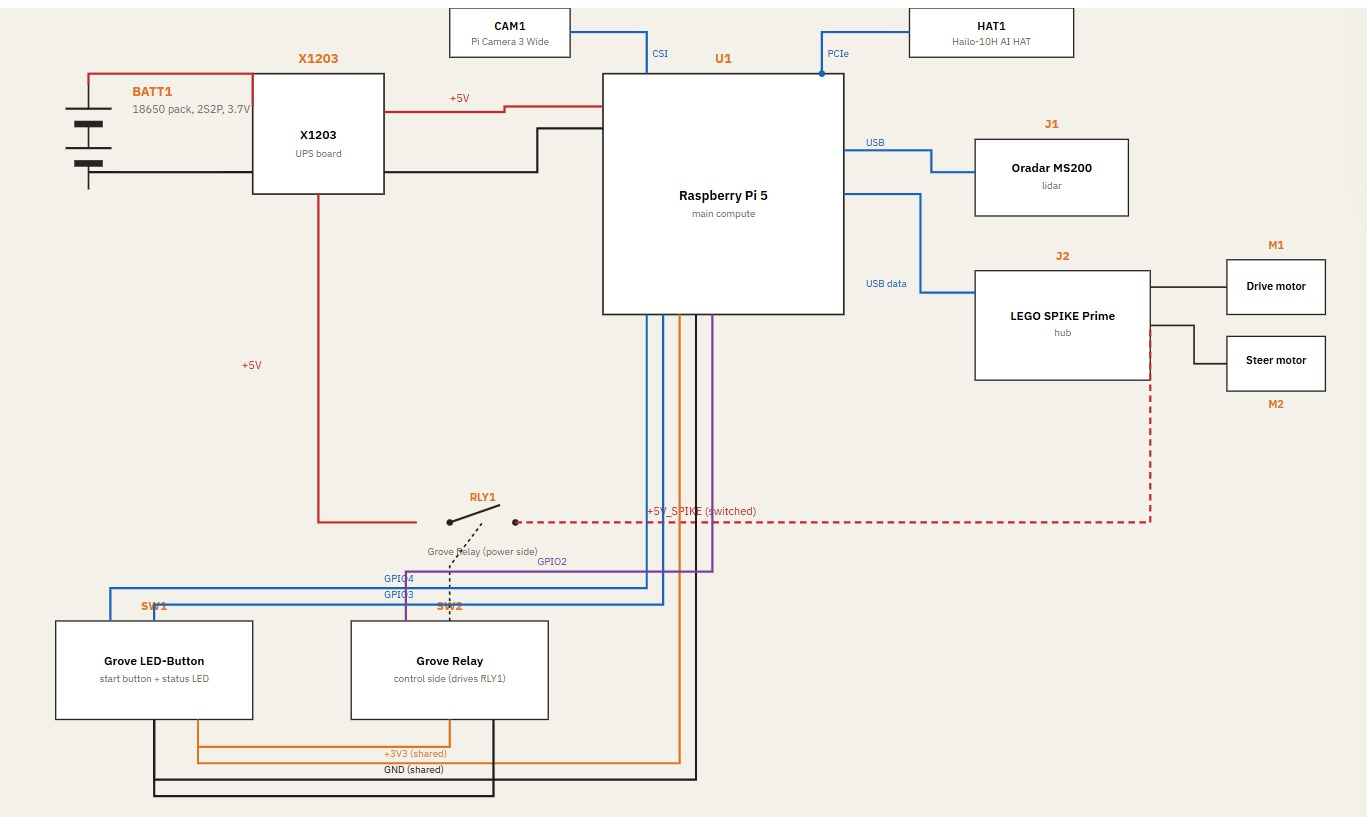
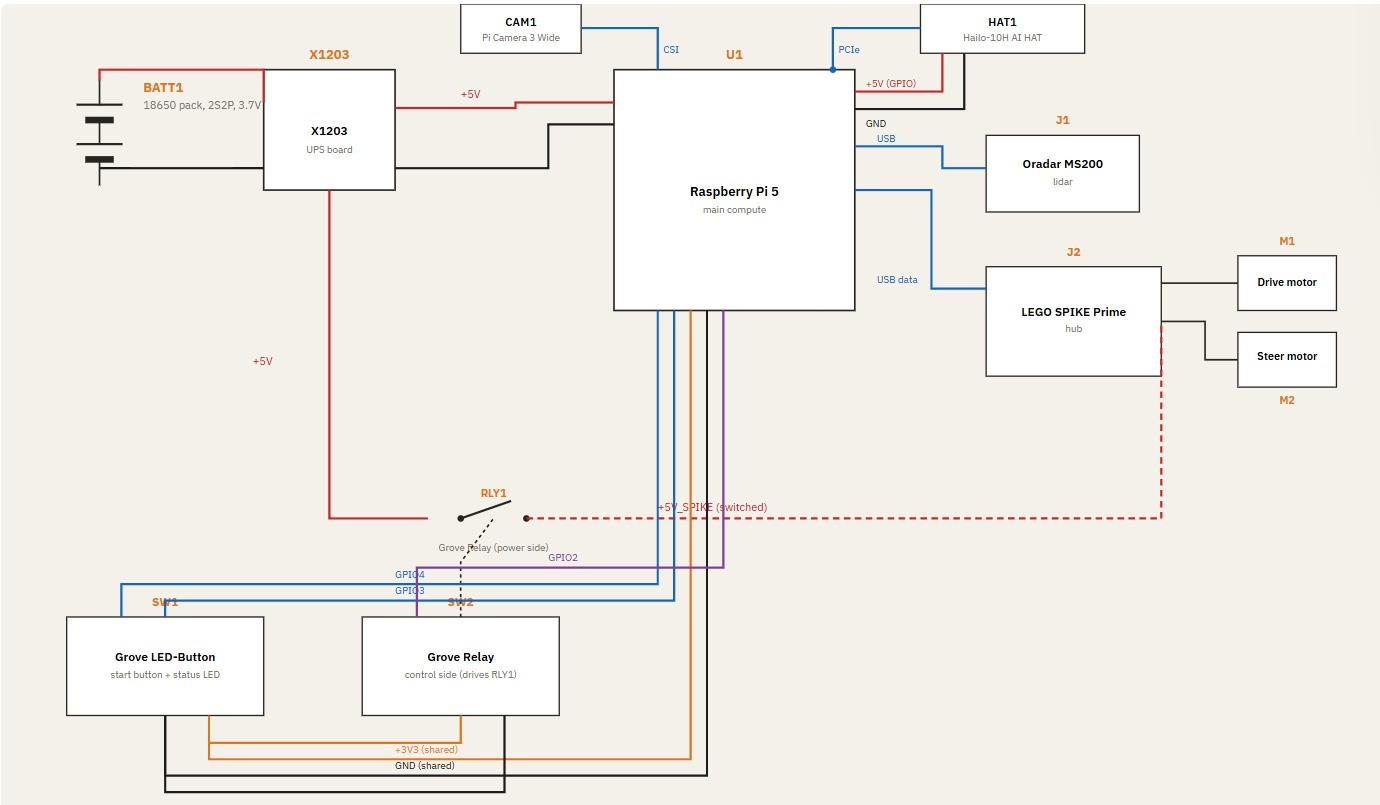
Updates to README.md

diff --git a/README.md b/README.md
@@ -393,21 +393,12 @@ Motor and steering commands are sent over a serial (USB) link to the LEGO SPIKE 
 
 ### Hardware Schematics & PCB Design
 
-No custom PCB was implemented in this prototype, all components are connected via their stock breakout boards/shields (Geekworm X1203, Grove modules, etc.) and standard wiring. Schematics for a custom PCB are still in development and not yet implemented in the robot; they are kept at `schemes\hardware\pcb` and may be adopted in a future revision if the team qualifies for the international stage.
 
-<mark>
-Component-level schematics/pinouts referenced below can be added as they're sourced:
-<img src="path/to/raspberry_pi5_schematic.png" alt="Raspberry Pi 5 schematic/pinout">
-*Figure 6. Raspberry Pi 5 schematic/pinout.*
-<img src="path/to/hailo10h_ai_hat_schematic.png" alt="Raspberry Pi AI HAT+ (Hailo-10H) schematic/pinout">
-*Figure 7. Raspberry Pi AI HAT+ (Hailo-10H) schematic/pinout.*
-<img src="path/to/x1203_ups_schematic.png" alt="Geekworm X1203 UPS shield schematic">
-*Figure 8. Geekworm X1203 UPS shield schematic.*
-<img src="path/to/oradar_ms200k_schematic.png" alt="Orbbec Oradar MS200k LiDAR wiring/pinout">
-*Figure 9. Orbbec Oradar MS200k LiDAR wiring/pinout.*
-<img src="path/to/spike_prime_hub_schematic.png" alt="LEGO SPIKE Prime Hub pinout/wiring">
-*Figure 10. LEGO SPIKE Prime Hub pinout/wiring.*
-</mark>
+<img src="schemes\hardware\connectionsSchematics.jpeg" alt="Connections Schematics">
+
+*Figure 6. System wiring diagram showing power distribution (Geekworm X1203 UPS board from the 2S2P 18650 battery pack) and data connections between the Raspberry Pi 5, Camera Module 3 Wide (CSI), Hailo-10H AI HAT (PCIe), Oradar MS200 LiDAR (USB), LEGO SPIKE Prime hub (USB, driving the drive and steer motors), the GPIO-controlled start button/status LED (Grove LED-Button), and the Grove Relay that switches 5V power to the SPIKE hub.*
+
+No custom PCB was implemented in this prototype; the full system wiring is documented in the connections schematic above (*Figure 6*), and all components are connected via their stock breakout boards/shields (Geekworm X1203, Grove modules, etc.) and standard wiring. Schematics for a custom PCB are still in development and not yet implemented in the robot; they are kept at [`schemes\hardware\pcb`](schemes/hardware/pcb) and may be adopted in a future revision if the team qualifies for the international stage. 
 
 ---
 
@@ -429,7 +420,91 @@ All control and vision code runs in C++ on the Raspberry Pi 5, paired with the H
 
 <img src="other\additionalMedia\Others\wro_software_dataflow_diagram.png" alt="Software data flow diagram: sensors, processing, decision, and actuators" width="800">
 
-*Figure 11. Software data flow from sensor input through processing and decision-making to motor actuation.*
+*Figure 7. Software data flow from sensor input through processing and decision-making to motor actuation.*
+
+### Open Challenge Program Flow
+
+Unlike the Obstacle Challenge, the Open Challenge runs a separate, simpler program [`src\ondevice\main.cpp`](src/ondevice/main.cpp). There are no color pillars to detect, so the Hailo/camera pipeline isn't used at all, only the LiDAR and the SPIKE Prime Hub. The trace below follows `main()` top to bottom. The robot's own left/right turns are true mirror images of each other in the code, drawn once here as `sentido` (the detected open side), with the mirror called out in the caption below.
+
+```mermaid
+flowchart TD
+    A(["Power on"]) --> B["Init lidar + writer thread<br/>Init GPIO, power on SPIKE hub<br/>SPIKE serial + interpreter,<br/>load on-hub motion routines"]
+    B --> C{{"Wait for start button"}}
+    C --> D["Reset gyro to 0&deg;<br/>Center vehicle"]
+    D --> E["Read lidar once:<br/>front / right / left distance"]
+    E --> F{"right or left<br/>&gt; 800&nbsp;mm?"}
+    F -- yes: OUTSIDE start --> G["First straight = 1350&nbsp;mm"]
+    F -- no: INSIDE start --> H["First straight = 300&nbsp;mm"]
+    G --> I["Detect which side is open:<br/>Advance_And_Detect_Side()<br/>&rarr; sentido = right | left"]
+    H --> I
+    I --> J["Turn 80&deg; toward sentido<br/>Center vehicle"]
+    J --> K["Drive the first-straight distance,<br/>curving toward sentido"]
+    K --> L["Slope() at +300&nbsp;mm,<br/>Slope() again at +700&nbsp;mm more"]
+    L --> M["Average the two slopes<br/>Reset gyro to that heading"]
+    M --> N(["Corner loop<br/>v = 0 &hellip; 9"])
+    N --> O["Advance until a gap opens<br/>on the sentido side"]
+    O --> P["Turn 80&deg; toward sentido<br/>Center vehicle"]
+    P --> Q["Drive 300&nbsp;mm, then 700&nbsp;mm more,<br/>measuring + averaging slope again"]
+    Q --> R["Reset gyro to the new heading"]
+    R --> S{"v = 10?"}
+    S -- "no (v&plus;&plus;)" --> N
+    S -- yes --> T["Pick a stop distance from the<br/>opposite-side reading taken back<br/>at the start (400 / 600&nbsp;mm bands)"]
+    T --> U["Turn 80&deg; toward sentido, center<br/>Drive 300&nbsp;mm"]
+    U --> V{"front reading<br/>&gt; 1500&nbsp;mm?"}
+    V -- yes --> W1["Advance to 1750&nbsp;mm from wall"]
+    V -- no --> W2["Advance to 1400&nbsp;mm from wall"]
+    W1 --> X["Coast motors &middot; close serial<br/>stop lidar thread &middot; close lidar"]
+    W2 --> X
+    X --> Z(["Run finished"])
+```
+
+*Figure 8. Open Challenge program flow, traced directly from [`src\ondevice\main.cpp`](src/ondevice/main.cpp).*
+
+> Every turn, distance, and threshold above is read directly out of [`main.cpp`](src/ondevice/main.cpp). **Sentido** (the detected open side) is fixed for the whole run right after the first turn, the code for `sentido = left` is the exact sign-mirrored twin of the `right` path drawn here.
+
+##### High-Level States
+
+The same run, one level up, the states a judge or teammate would actually watch the robot move through.
+
+```mermaid
+stateDiagram-v2
+    [*] --> Booting
+    Booting --> WaitingForStart: hardware + hub ready
+    WaitingForStart --> Calibrating: start button pressed
+    Calibrating --> SideDetect: gyro zeroed, vehicle centered
+    SideDetect --> Aligning: open side found (left / right)
+    Aligning --> Cornering: heading corrected to wall
+    Cornering --> Aligning: gap found, turned (x10)
+    Cornering --> Parking: 10th corner cleared
+    Parking --> Stopped: final wall reached
+    WaitingForStart --> Stopped: Ctrl+C
+    Calibrating --> Stopped: Ctrl+C
+    SideDetect --> Stopped: Ctrl+C
+    Aligning --> Stopped: Ctrl+C
+    Cornering --> Stopped: Ctrl+C
+    Stopped --> [*]
+```
+
+*Figure 9. Open Challenge high-level state machine.*
+
+> Ctrl+C sets the lidar's `terminating` flag from every state; the current busy-wait loop notices it within ~1 ms and the run drops straight to **Stopped** instead of finishing the maneuver in progress.
+
+### Thresholds
+
+Pulled straight from the constants in [`main.cpp`](src/ondevice/main.cpp), for whoever tunes this next.
+
+| Constant | Value | Where it acts |
+|---|---|---|
+| Outside / inside split | `800 mm` | Right or left reading above this at the very start, treated as an "outside" starting box, else "inside". |
+| First straight, outside case | `1350 mm` | Distance driven right after the first turn, before the first slope measurement. |
+| First straight, inside case | `300 mm` | Same step, shorter start, inside boxes give less room before the first wall. |
+| Slope sampling gap | `300 + 700 mm` | Two `Slope()` reads this far apart get averaged into one heading correction. |
+| Corners per run | `10 (v < 10)` | Loop count for the corner-navigation phase, matches the Open Challenge's three laps of the four-cornered field. |
+| Corner turn angle | `80°` | Every `Spike_Turn_For_Degrees` call at a corner, in both the lap loop and the setup turn. |
+| Final approach bands | `400 / 600 mm` | The opposite-side reading from step 1 selects a 550, 750, or 1050 mm stop distance for parking. |
+| Final front threshold | `1500 mm` | Chooses whether the closing approach stops at 1400 or 1750 mm from the front wall. |
+
+---
 
 #### LiDAR & Perception Processing
 
@@ -472,11 +547,8 @@ Both gain sets were obtained through trial-and-error tuning on the physical trac
 * **Parallel Parking Maneuver:** The camera detects the magenta parking lot markers (labeled `x-parking`) to locate the parking zone. The robot then uses the LiDAR to position itself at a set distance from the wall, and from there uses a combination of LiDAR and gyroscope readings to execute the parking maneuver itself.
 #### State Machine & Safety Systems
 
-* **Robot States:** The code confirms an `Obstacle_Challenge_Thread` state machine exists, driving wall-following and pillar-avoidance decisions/maneuvers, but the provided files don't enumerate a full named state list.
-  > MISSING **TODO:** Confirm whether Startup → Normal navigation → Obstacle avoidance → Parking → Stopped matches the actual implemented states, or replace with the real list.
-* **Safety Systems:** `rasp_gpio.cpp` implements a start button (`Rasp_Gpio_Wait_For_Button`) and a status LED, plus a relay that powers on the SPIKE hub at boot.
-  > MISSING **TODO:** No emergency-stop mechanism, sensor-failure handling, or automatic recovery behavior is documented, fill in if implemented, or note as a known gap.
-
+ * **Robot States:** The `Obstacle_Challenge_Thread` state machine runs: `Booting` → `WaitingForStart` (waits for LiDAR, GPIO, SPIKE hub, and the Hailo model to be ready, then the start button) → `InitialScan` (reads the side-wall distance to pick a direction) → `ClockwiseRun` → `ExitParkingLot` → a repeating `CornerCycle` (12 total: 3 laps × 4 corners, with the 4th corner of each lap run in parking mode) → `Idle` once all 12 corners are complete → `Stopped` (reachable from any state via Ctrl+C). Note: the counter-clockwise direction is currently a stub — it performs a single 45° turn and falls straight through to `Idle`; the full 12-corner cycle is only implemented for the clockwise direction.
+* **Safety Systems:** `rasp_gpio.cpp` implements a start button (`Rasp_Gpio_Wait_For_Button`) and a status LED, plus a relay that powers on the SPIKE hub at boot. There is no dedicated hardware emergency-stop button separate from process termination (Ctrl+C), and no automatic sensor-failure fallback is implemented. The gyroscope and LiDAR do serve as the robot's recovery mechanism: at the start of every corner's decision logic, the robot re-squares its gyro heading against the LiDAR-measured side wall (`Slope(left)`, ±90°), correcting any drift accumulated during the previous cube-avoidance maneuver before continuing.
 ---
 
 ## 4. Engineering Process & Design Iterations <a id="engineering-process"></a>
